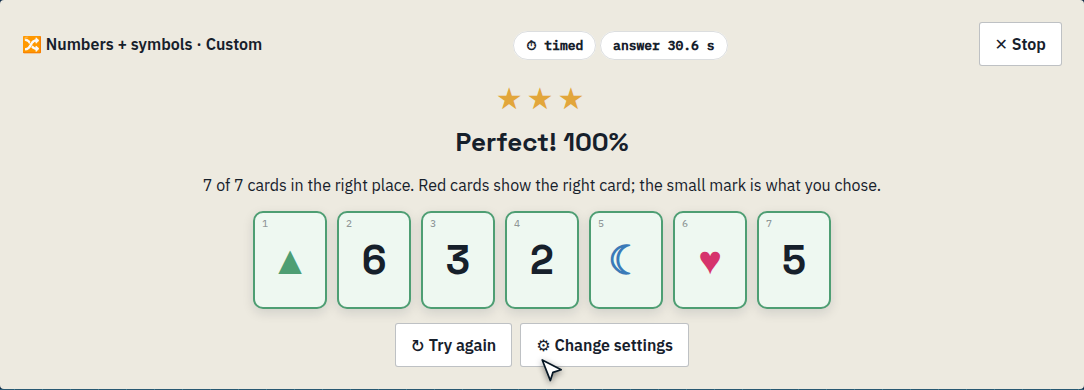
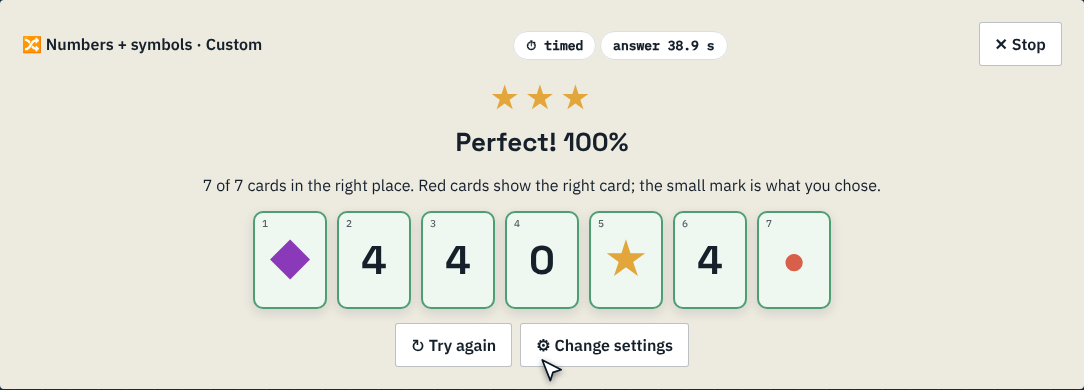
Memory Forge: every level can be picked, stars only show progress
Levels were locked until the previous one was passed, and progress lives
in one browser, so on a new device you had to start from level 1 again.
Now all 30 levels are open and the stars just show how you did.
Video re-recorded with the new narration.

Claude-Session: https://claude.ai/code/session_01JNj6dYgywH4XwXDtE4yJuE

diff --git a/i18n/memory-forge.js b/i18n/memory-forge.js
@@ -29,7 +29,7 @@ I18N.phrases({
   "⏱ With time": { es: "⏱ Con tiempo", ar: "⏱ بوقت", zh: "⏱ 计时", sw: "⏱ Kwa muda", sv: "⏱ Med tid" },
   "🧘 Without time": { es: "🧘 Sin tiempo", ar: "🧘 بلا وقت", zh: "🧘 不计时", sw: "🧘 Bila muda", sv: "🧘 Utan tid" },
   "Cards hide after a set time, and you answer against the clock.": { es: "Las cartas se ocultan tras un tiempo fijo y respondes contrarreloj.", ar: "تختفي البطاقات بعد وقت محدد وتجيب في سباق مع الزمن.", zh: "卡片在设定时间后隐藏，你需要在限时内作答。", sw: "Kadi zinajificha baada ya muda uliowekwa, na unajibu dhidi ya saa.", sv: "Korten döljs efter en viss tid och du svarar mot klockan." },
-  "Pass a level (90% or more) to unlock the next. Stars: ★ 70% · ★★ 90% · ★★★ perfect. Timed and untimed progress are kept separately.": { es: "Supera un nivel (90 % o más) para desbloquear el siguiente. Estrellas: ★ 70 % · ★★ 90 % · ★★★ perfecto. El progreso con tiempo y sin tiempo se guarda por separado.", ar: "اجتز مستوى (90% أو أكثر) لفتح التالي. النجوم: ★ 70% · ★★ 90% · ★★★ مثالي. يُحفظ التقدم بوقت وبدون وقت بشكل منفصل.", zh: "通过一关（90% 或以上）即可解锁下一关。星级：★ 70% · ★★ 90% · ★★★ 满分。计时和不计时的进度分开保存。", sw: "Pita kiwango (90% au zaidi) kufungua kinachofuata. Nyota: ★ 70% · ★★ 90% · ★★★ kamili. Maendeleo ya kwa muda na bila muda yanahifadhiwa tofauti.", sv: "Klara en nivå (90 % eller mer) för att låsa upp nästa. Stjärnor: ★ 70 % · ★★ 90 % · ★★★ perfekt. Framsteg med och utan tid sparas separat." },
+  "Pick any level — every level is open, so you can carry on where you left off on another device. Stars show how you did: ★ 70% · ★★ 90% (passed) · ★★★ perfect. Timed and untimed stars are kept separately.": { es: "Elige cualquier nivel: todos están abiertos, así que puedes seguir donde lo dejaste en otro dispositivo. Las estrellas muestran cómo te fue: ★ 70 % · ★★ 90 % (superado) · ★★★ perfecto. Las estrellas con tiempo y sin tiempo se guardan por separado.", ar: "اختر أي مستوى — كل المستويات مفتوحة، لذا يمكنك المتابعة من حيث توقفت على جهاز آخر. تُظهر النجوم أداءك: ★ 70% · ★★ 90% (ناجح) · ★★★ مثالي. تُحفظ نجوم اللعب بوقت وبدون وقت بشكل منفصل.", zh: "任选关卡——所有关卡都已开放，换了设备也能从上次的地方继续。星级表示你的成绩：★ 70% · ★★ 90%（通过）· ★★★ 满分。计时和不计时的星级分开保存。", sw: "Chagua kiwango chochote — viwango vyote viko wazi, kwa hiyo unaweza kuendelea ulipoishia kwenye kifaa kingine. Nyota zinaonyesha ulivyofanya: ★ 70% · ★★ 90% (umepita) · ★★★ kamili. Nyota za kwa muda na bila muda zinahifadhiwa tofauti.", sv: "Välj vilken nivå du vill — alla nivåer är öppna, så du kan fortsätta där du slutade på en annan enhet. Stjärnorna visar hur det gick: ★ 70 % · ★★ 90 % (klarad) · ★★★ perfekt. Stjärnor med och utan tid sparas separat." },
   "How many numbers": { es: "Cuántos números", ar: "كم رقمًا", zh: "数字数量", sw: "Namba ngapi", sv: "Hur många siffror" },
   "Number cards to memorise": { es: "Cartas de números para memorizar", ar: "بطاقات الأرقام للحفظ", zh: "要记住的数字卡片", sw: "Kadi za namba za kukariri", sv: "Sifferkort att memorera" },
   "Digits on each card": { es: "Dígitos en cada carta", ar: "الخانات في كل بطاقة", zh: "每张卡片的位数", sw: "Tarakimu kwenye kila kadi", sv: "Siffror per kort" },
@@ -210,7 +210,7 @@ I18N.phrases({
   "Welcome to Memory Forge. Train your memory with number and symbol cards and other games, level by level.": { es: "Bienvenido a Memory Forge. Entrena tu memoria nivel a nivel con cartas de números y símbolos y otros juegos.", ar: "مرحبًا بك في Memory Forge. درّب ذاكرتك ببطاقات الأرقام والرموز وألعاب أخرى، مستوى تلو مستوى.", zh: "欢迎使用 Memory Forge。用数字和符号卡片以及其他游戏逐级训练记忆力。", sw: "Karibu Memory Forge. Fundisha kumbukumbu yako kwa kadi za namba na alama na michezo mingine, kiwango kwa kiwango.", sv: "Välkommen till Memory Forge. Träna minnet med siffer- och symbolkort och andra spel, nivå för nivå." },
   "Choose a game. Number cards, symbol cards, a mix of both, the chimp test, pairs, n-back, sequences and word lists each train a different kind of memory.": { es: "Elige un juego. Cartas de números, de símbolos, una mezcla de ambas, el test del chimpancé, parejas, n-back, secuencias y listas de palabras entrenan cada uno un tipo de memoria distinto.", ar: "اختر لعبة. بطاقات الأرقام وبطاقات الرموز ومزيج منهما واختبار الشمبانزي والأزواج وn-back والتسلسلات وقوائم الكلمات، كل منها يدرّب نوعًا مختلفًا من الذاكرة.", zh: "选择一个游戏。数字卡片、符号卡片、两者混合、黑猩猩测试、配对、n-back、序列和单词表各自训练不同类型的记忆。", sw: "Chagua mchezo. Kadi za namba, kadi za alama, mchanganyiko wa zote mbili, jaribio la sokwe, jozi, n-back, mfuatano na orodha za maneno kila moja inafundisha aina tofauti ya kumbukumbu.", sv: "Välj ett spel. Sifferkort, symbolkort, en blandning av båda, schimpanstestet, par, n-back, sekvenser och ordlistor tränar var och en olika sorters minne." },
   "Pick Number cards, then choose with or without a clock. Without a clock you can look at the cards for as long as you like.": { es: "Elige Cartas de números y luego con o sin reloj. Sin reloj puedes mirar las cartas todo el tiempo que quieras.", ar: "اختر بطاقات الأرقام، ثم اختر بمؤقت أو بدونه. بدون مؤقت يمكنك النظر إلى البطاقات قدر ما تشاء.", zh: "选择数字卡片，然后选择计时或不计时。不计时的话，你想看多久都行。", sw: "Chagua Kadi za namba, kisha uchague kwa saa au bila saa. Bila saa unaweza kuangalia kadi kwa muda wowote unaotaka.", sv: "Välj Sifferkort och sedan med eller utan klocka. Utan klocka kan du titta på korten hur länge du vill." },
-  "There are thirty levels. Each one adds cards and takes away time, and passing a level unlocks the next.": { es: "Hay treinta niveles. Cada uno añade cartas y quita tiempo, y superar un nivel desbloquea el siguiente.", ar: "هناك ثلاثون مستوى. كل مستوى يضيف بطاقات ويقلل الوقت، واجتياز مستوى يفتح التالي.", zh: "共有三十个关卡。每关都会增加卡片、减少时间，通过一关就解锁下一关。", sw: "Kuna viwango thelathini. Kila kimoja kinaongeza kadi na kupunguza muda, na kupita kiwango kunafungua kinachofuata.", sv: "Det finns trettio nivåer. Varje nivå lägger till kort och tar bort tid, och klarar du en nivå låses nästa upp." },
+  "There are thirty levels, and you can pick any of them. Each one adds cards and takes away time, and stars show which levels you have passed.": { es: "Hay treinta niveles y puedes elegir cualquiera. Cada uno añade cartas y quita tiempo, y las estrellas muestran qué niveles has superado.", ar: "هناك ثلاثون مستوى ويمكنك اختيار أي منها. كل مستوى يضيف بطاقات ويقلل الوقت، وتُظهر النجوم المستويات التي اجتزتها.", zh: "共有三十个关卡，你可以任选其一。每关都会增加卡片、减少时间，星级显示你已通过的关卡。", sw: "Kuna viwango thelathini, na unaweza kuchagua chochote. Kila kimoja kinaongeza kadi na kupunguza muda, na nyota zinaonyesha viwango ulivyopita.", sv: "Det finns trettio nivåer och du kan välja vilken som helst. Varje nivå lägger till kort och tar bort tid, och stjärnorna visar vilka nivåer du har klarat." },
   "Press Start and memorise the cards from left to right.": { es: "Pulsa Empezar y memoriza las cartas de izquierda a derecha.", ar: "اضغط ابدأ واحفظ البطاقات من اليسار إلى اليمين.", zh: "点击开始，从左到右记住卡片。", sw: "Bonyeza Anza na ukariri kadi kutoka kushoto kwenda kulia.", sv: "Tryck på Starta och memorera korten från vänster till höger." },
   "When you are ready, press I have memorised them, and put the cards back in order with the keypad.": { es: "Cuando estés listo, pulsa Ya las he memorizado y vuelve a poner las cartas en orden con el teclado numérico.", ar: "عندما تكون جاهزًا، اضغط حفظتها، وأعد البطاقات بالترتيب بلوحة الأرقام.", zh: "准备好后，点击“我记住了”，再用数字键盘把卡片按顺序摆回去。", sw: "Ukiwa tayari, bonyeza Nimezikariri, na urudishe kadi kwa mpangilio kwa kibodi ya namba.", sv: "När du är redo trycker du på Jag har memorerat dem och lägger tillbaka korten i ordning med knappsatsen." },
   "Check shows which cards were right, your stars, and a button for the next level.": { es: "Comprobar muestra qué cartas eran correctas, tus estrellas y un botón para el siguiente nivel.", ar: "يعرض التحقق البطاقات الصحيحة ونجومك وزرًا للمستوى التالي.", zh: "检查会显示哪些卡片正确、你的星级以及进入下一关的按钮。", sw: "Hakiki inaonyesha kadi zipi zilikuwa sahihi, nyota zako na kitufe cha kiwango kinachofuata.", sv: "Kontrollera visar vilka kort som var rätt, dina stjärnor och en knapp till nästa nivå." },
@@ -226,7 +226,6 @@ I18N.phrases({
   "Welcome to Memory Forge. This walkthrough uses the real tool controls on this page.": { es: "Bienvenido a Memory Forge. Este recorrido usa los controles reales de la herramienta en esta página.", ar: "مرحبًا بك في Memory Forge. تستخدم هذه الجولة عناصر التحكم الحقيقية للأداة على هذه الصفحة.", zh: "欢迎使用 Memory Forge。本演示使用本页上真实的工具控件。", sw: "Karibu Memory Forge. Mwongozo huu unatumia vidhibiti halisi vya zana kwenye ukurasa huu.", sv: "Välkommen till Memory Forge. Genomgången använder verktygets riktiga kontroller på den här sidan." },
   "Memory Forge is a free practice tool, not a medical or cognitive assessment.": { es: "Memory Forge es una herramienta de práctica gratuita, no una evaluación médica ni cognitiva.", ar: "Memory Forge أداة تدريب مجانية، وليست تقييمًا طبيًا أو معرفيًا.", zh: "Memory Forge 是免费的练习工具，不是医学或认知评估。", sw: "Memory Forge ni zana ya bure ya mazoezi, si tathmini ya kitabibu au ya kiakili.", sv: "Memory Forge är ett gratis övningsverktyg, inte en medicinsk eller kognitiv bedömning." },
   "Art in the style of Georgia O'Keeffe – click for more": { es: "Arte al estilo de Georgia O'Keeffe: haz clic para saber más", ar: "رسم بأسلوب جورجيا أوكيف – انقر لمعرفة المزيد", zh: "乔治亚·欧姬芙风格的插画——点击了解更多", sw: "Sanaa kwa mtindo wa Georgia O'Keeffe – bofya kujua zaidi", sv: "Konst i Georgia O'Keeffes stil – klicka för mer" },
-  "Pass level {0} first": { es: "Supera antes el nivel {0}", ar: "اجتز المستوى {0} أولًا", zh: "请先通过第 {0} 关", sw: "Pita kiwango cha {0} kwanza", sv: "Klara nivå {0} först" },
   "e.g. Spanish words, chapter 3": { es: "p. ej. palabras en español, capítulo 3", ar: "مثلًا: كلمات إسبانية، الفصل 3", zh: "例如：西班牙语单词，第 3 章", sw: "k.m. maneno ya Kihispania, sura ya 3", sv: "t.ex. spanska ord, kapitel 3" },
   "How to use Memory Forge": { es: "Cómo usar Memory Forge", ar: "كيفية استخدام Memory Forge", zh: "如何使用 Memory Forge", sw: "Jinsi ya kutumia Memory Forge", sv: "Så använder du Memory Forge" },
   "Memory training with levels, number and symbol cards — Memory Forge | MigaBuilder": { es: "Entrenamiento de memoria por niveles con cartas de números y símbolos — Memory Forge | MigaBuilder", ar: "تدريب الذاكرة بالمستويات وبطاقات الأرقام والرموز — Memory Forge | MigaBuilder", zh: "分级记忆训练，数字和符号卡片 — Memory Forge | MigaBuilder", sw: "Mafunzo ya kumbukumbu kwa viwango, kadi za namba na alama — Memory Forge | MigaBuilder", sv: "Minnesträning med nivåer, siffer- och symbolkort — Memory Forge | MigaBuilder" },

diff --git a/memory-forge.html b/memory-forge.html
@@ -25,7 +25,7 @@
 .levels{display:grid;grid-template-columns:repeat(auto-fill,minmax(64px,1fr));gap:6px}
 .lvl{border:1px solid rgba(22,32,43,.2);background:#fff;border-radius:6px;padding:8px 4px;cursor:pointer;text-align:center;font-weight:700;color:var(--ink)}
 .lvl small{display:block;font-size:11px;color:#b7831d;letter-spacing:1px;min-height:14px}
-.lvl.sel{outline:3px solid var(--amber)}.lvl.locked{opacity:.4;cursor:not-allowed}.lvl.done{background:#eef8f1;border-color:#4E9E73}
+.lvl.sel{outline:3px solid var(--amber)}.lvl.done{background:#eef8f1;border-color:#4E9E73}
 .row{display:flex;gap:12px;flex-wrap:wrap;align-items:center;margin:10px 0}
 .switch{display:inline-flex;border:1px solid rgba(22,32,43,.25);border-radius:999px;overflow:hidden;background:#fff}
 .switch button{border:0;background:none;padding:8px 14px;font-weight:700;cursor:pointer;color:var(--ink)}.switch button.on{background:var(--navy);color:#fff}
@@ -110,7 +110,7 @@ table.major{border-collapse:collapse;font-size:13px}table.major td{border:1px so
     <div class="switch" id="timeSwitch"><button data-timed="1" class="on" id="timedOn">⏱ With time</button><button data-timed="0" id="timedOff">🧘 Without time</button></div>
     <span class="muted" id="timeHint"></span></div>
   <div id="levelsBox">
-    <p class="muted">Pass a level (90% or more) to unlock the next. Stars: ★ 70% · ★★ 90% · ★★★ perfect. Timed and untimed progress are kept separately.</p>
+    <p class="muted">Pick any level — every level is open, so you can carry on where you left off on another device. Stars show how you did: ★ 70% · ★★ 90% (passed) · ★★★ perfect. Timed and untimed stars are kept separately.</p>
     <div class="levels" id="levels"></div>
   </div>
   <div id="customBox" class="hidden">
@@ -289,11 +289,10 @@ function currentCfg(){
 
 // ---------- UI: modes, tabs, levels, custom ----------
 function renderModes(){$('modes').innerHTML=Object.entries(MODES).map(([k,m])=>'<button class="mode'+(k===S.mode?' active':'')+'" data-mode="'+k+'" id="mode-'+k+'"><span class="ico">'+m.ico+'</span><b>'+m.name+'</b><small>'+m.d+'</small></button>').join('');
-  $('modes').querySelectorAll('.mode').forEach(b=>b.onclick=()=>{S.mode=b.dataset.mode;S.level=Math.min(S.level,unlocked());persist();renderAll()})}
-function unlocked(){const st=store.stars[starKey()]||{};let u=1;for(let L=1;L<=MAXL;L++){if((st[L]||0)>=2)u=L+1}return Math.min(MAXL,u)}
-function renderLevels(){const st=store.stars[starKey()]||{},u=unlocked();if(S.level>u)S.level=u;
-  $('levels').innerHTML=Array.from({length:MAXL},(_,i)=>{const L=i+1,s=st[L]||0;return '<button class="lvl'+(L>u?' locked':'')+(s>=2?' done':'')+(L===S.level?' sel':'')+'" data-l="'+L+'" id="lvl-'+L+'"'+(L>u?' disabled title="Pass level '+(L-1)+' first"':'')+'>'+L+'<small>'+'★'.repeat(s)+'</small></button>'}).join('');
-  $('levels').querySelectorAll('.lvl:not(.locked)').forEach(b=>b.onclick=()=>{S.level=+b.dataset.l;persist();renderLevels();renderSummary()})}
+  $('modes').querySelectorAll('.mode').forEach(b=>b.onclick=()=>{S.mode=b.dataset.mode;persist();renderAll()})}
+function renderLevels(){const st=store.stars[starKey()]||{};if(!(S.level>=1&&S.level<=MAXL))S.level=1;
+  $('levels').innerHTML=Array.from({length:MAXL},(_,i)=>{const L=i+1,s=st[L]||0;return '<button class="lvl'+(s>=2?' done':'')+(L===S.level?' sel':'')+'" data-l="'+L+'" id="lvl-'+L+'"'+'>'+L+'<small>'+'★'.repeat(s)+'</small></button>'}).join('');
+  $('levels').querySelectorAll('.lvl').forEach(b=>b.onclick=()=>{S.level=+b.dataset.l;persist();renderLevels();renderSummary()})}
 function f(id,label,html,hint){return '<div class="field"><label for="'+id+'">'+label+'</label>'+html+(hint?'<div class="hint">'+hint+'</div>':'')+'</div>'}
 function num(id,min,max,step){return '<input type="number" id="c_'+id+'" data-k="'+id+'" min="'+min+'" max="'+max+'" step="'+(step||1)+'" value="'+S[id]+'">'}
 function sel(id,opts){return '<select id="c_'+id+'" data-k="'+id+'">'+opts.map(o=>'<option value="'+o[0]+'"'+(String(S[id])===String(o[0])?' selected':'')+'>'+o[1]+'</option>').join('')+'</select>'}
